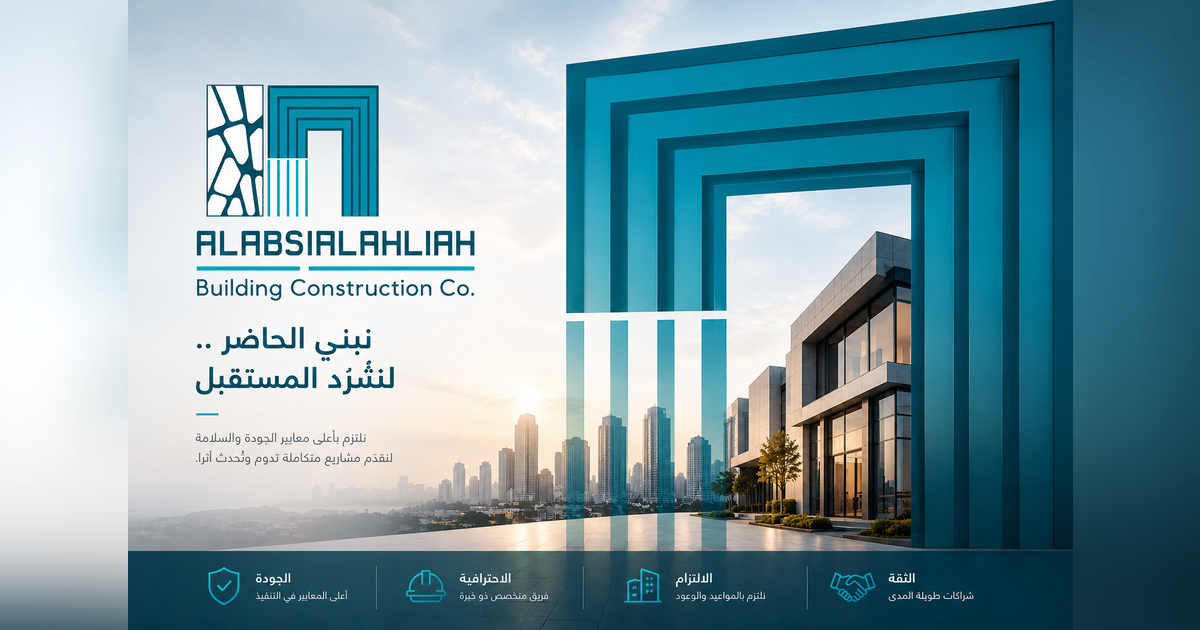
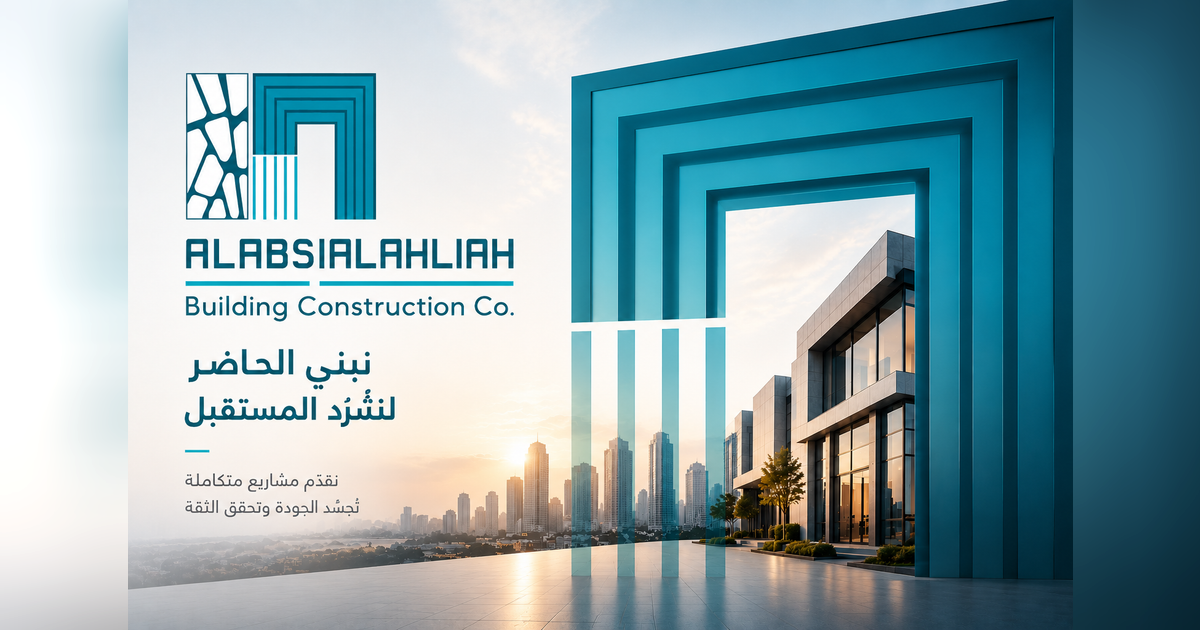
Build the og card from hero.png, fitted rather than cropped
The previous card came from images/image.png, a different poster with a
values strip along the bottom. Rebuild it from images/hero.png — the
one actually intended for sharing — fitted whole into the 1200x630
frame so the logo, headline and strapline all survive, over a blurred
blow-up of itself so the sides read as a soft frame.

Also record two things that were quietly untrue in the docs: public/images/
now holds stock placeholders rather than nothing, and src/assets/hero.png
and src/assets/about.png are each other's namesake in images/ — the hero
asset is images/about-us.png and the about asset is images/hero.png.

diff --git a/CLAUDE.md b/CLAUDE.md
@@ -97,10 +97,15 @@ drives every canonical, `hreflang`, sitemap entry and the absolute `og:image` UR
   re-encoded**; it is both the brand mark and the favicon.
 
 Project photos and before/after pairs are referenced by absolute path
-(`/images/project-1.jpg`, `/images/ba-1-before.jpg`). **`public/images/` does not exist
-yet.** `src/scripts/site.js` catches the load failure and adds `.is-placeholder` to the
-wrapper, which renders a blueprint pattern. Missing photos are the expected current
-state, not a bug to fix — and any new photo slot should use the same fallback hook.
+(`/images/project-1.jpg`, `/images/ba-1-before.jpg`). `public/images/` currently holds
+**stock placeholders**, not the company's own work — the site presents them as its
+portfolio, so they are meant to be swapped for real photography. `src/scripts/site.js`
+still catches a load failure and adds `.is-placeholder` to the wrapper, which renders a
+blueprint pattern; any new photo slot should use the same fallback hook.
+
+`src/assets/hero.png` and `src/assets/about.png` do not match the `images/` files of the
+same name — `src/assets/hero.png` is `images/about-us.png` and `src/assets/about.png` is
+`images/hero.png`. Check the content, not the filename, before reusing either.
 
 Optional per-project fields (`location`, `year`, `scope`, `gallery`) are intentionally
 empty strings/arrays; `ProjectDetail.astro` guards each block so an empty value renders

diff --git a/README.md b/README.md
@@ -239,6 +239,13 @@ top and bottom, which on this design is exactly where the logo and the strapline
 **Keep any replacement at 1200x630.** The `og:image:height` tag is derived from the
 file, so a wrong ratio is visible in the built HTML.
 
+That file is `images/hero.png` **fitted** whole into the 1200x630 frame — not cropped
+to fill it — sitting on a blurred blow-up of itself so the sides read as a soft frame
+rather than two hard bars. The poster carries the logo, headline and strapline as baked
+pixels, so any crop destroys them; fit, never fill. Astro's `getImage()` cannot do this
+(it ignores `fit: 'contain'` and `background`), which is why the shaping is baked into
+the asset instead of the build.
+
 After changing the domain, re-scrape the URL in
 [Facebook's Sharing Debugger](https://developers.facebook.com/tools/debug/) — WhatsApp
 and Facebook cache previews aggressively and will keep showing the old (missing) one.
